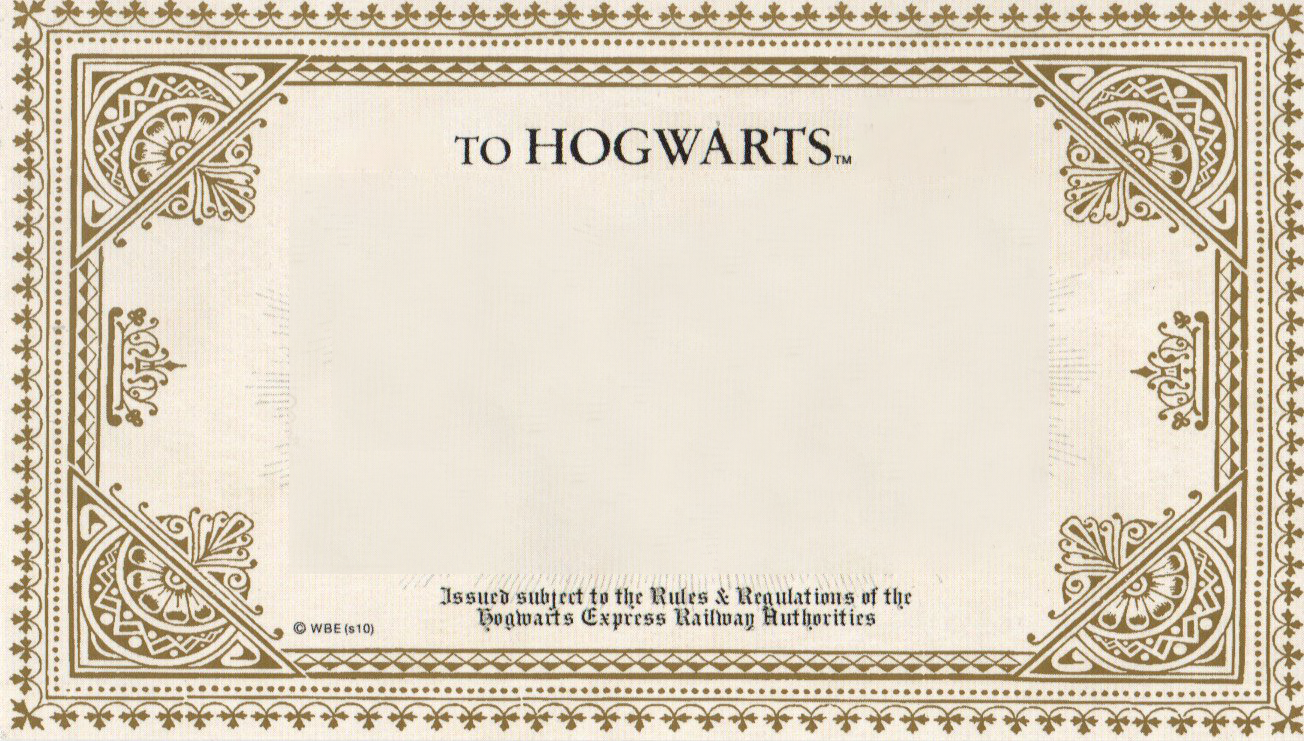
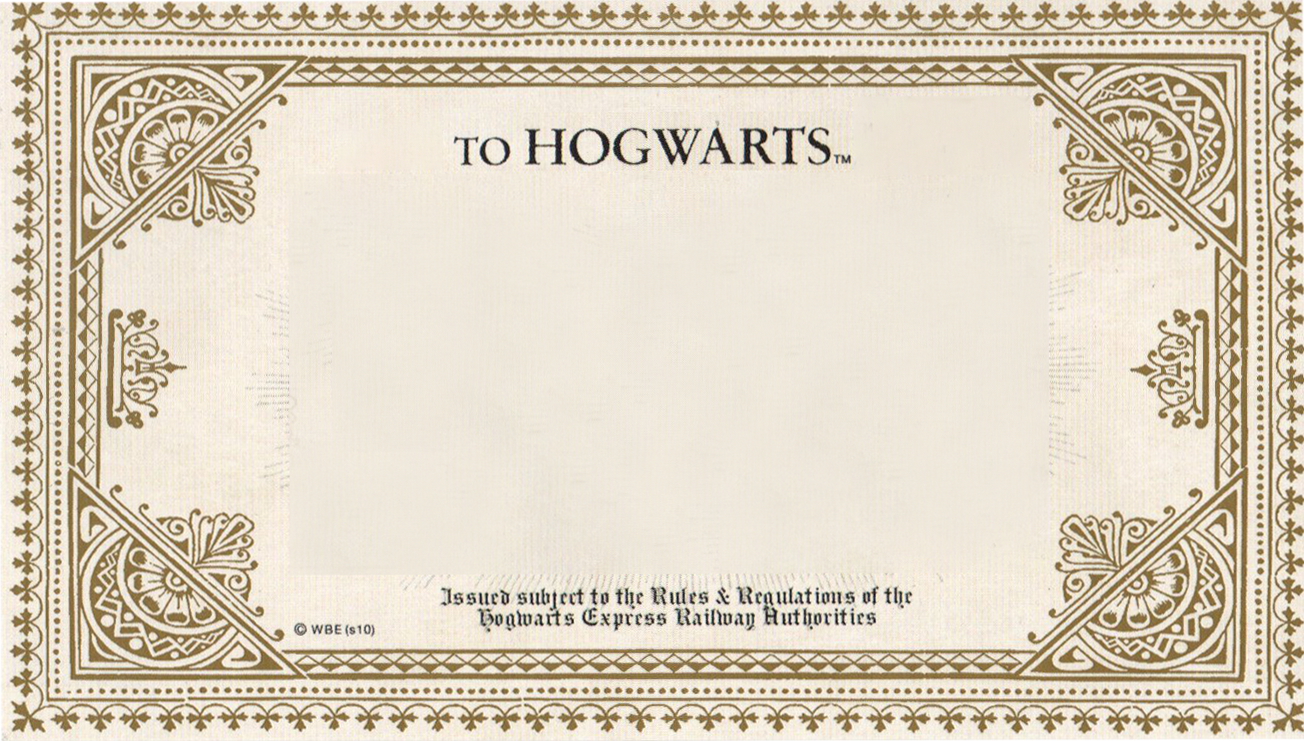
fix layout

Changed region(s): [[0.0, 0.0, 1.0, 1.0], [0.3374, 0.1552, 0.6442, 0.2173]]

diff --git a/js/script.js b/js/script.js
@@ -34,23 +34,24 @@ console.log("sconto per over65 : " , over65 , "€");
 silente = parseFloat(prezzoStandard / 100 * 100);
 console.log("sconto silente : " , silente , "€");
 
+// imposto le condizioni
 if(eta < 18){
   prezzoScontato18 = prezzoStandard - under18;
-  console.log("questo è il prezzo per gli under18: " , prezzoScontato18 , "€");
+  // console.log("questo è il prezzo per gli under18: " , prezzoScontato18 , "€");
   document.getElementById('ticket').innerHTML = "Salve babbano il prezzo del tuo biglietto è: " + prezzoScontato18 + "€" ;
 
 }else if(eta>100){
   prezzoScontatoSilente = prezzoStandard - silente;
-  console.log("questo è il prezzo per Silente: " , prezzoScontatoSilente , "€");
+  // console.log("questo è il prezzo per Silente: " , prezzoScontatoSilente , "€");
   document.getElementById('ticket').innerHTML = "Oddìo Silente è proprio lei ?!Per lei il prezzo del biglietto è : " + prezzoScontatoSilente + "€" ;
 
 }else if(eta > 65){
   prezzoScontato65 = prezzoStandard - over65;
-  console.log("questo è il prezzo per gli over65: " , prezzoScontato65 , "€");
+  // console.log("questo è il prezzo per gli over65: " , prezzoScontato65 , "€");
   document.getElementById('ticket').innerHTML = "Salve babbano il prezzo del tuo biglietto è: " + prezzoScontato65 + "€" ;
 
 }else{
   prezzoStandard = prezzoStandard;
-  console.log("tu paghi : " , prezzoStandard , "€");
+  // console.log("tu paghi : " , prezzoStandard , "€");
   document.getElementById('ticket').innerHTML = "Salve babbano il prezzo del tuo biglietto è: " + prezzoStandard + "€";
 }

diff --git a/css/style.css b/css/style.css
@@ -2,7 +2,6 @@ body{
   margin:0;
   padding:0;
   box-sizing: border-box;
-  min-height: 100vh;
   display:flex;
   flex-direction: column;
   justify-content: center;
@@ -10,7 +9,8 @@ body{
   background-repeat: no-repeat;
   background-size: cover;
   align-items: center;
-  font-family: "harrypotter"
+  font-family: "harrypotter";
+  background-attachment: fixed;
 }
 
 
@@ -25,24 +25,24 @@ h1{
 }
 
 .biglietto{
-  height: 450px;
-  width:50%;
+  min-height: 400px;
   background-image: url(../img/biglietto.png);
   background-repeat: no-repeat;
-  background-size: 100%;
-  padding:50px;
+  background-size: cover;
+  background-position: center;
   font-weight: bold;
   text-align: center;
-  border: 1px solid;
-  box-shadow: 5px 10px;
+  box-shadow: 0 0 30px #000;
   display:flex;
   justify-content: center;
   align-items: center;
+  letter-spacing: 0.2rem;
 }
 
 span{
+  font-family: sans-serif;
   color:#2B232B;
-  font-size: 50px;
-  width: 70%;
+  font-size: 30px;
+  width: 60%;
   display:block;
 }

diff --git a/index.html b/index.html
@@ -11,8 +11,6 @@
     <h1>Biglietto per Hogwarts</h1>
     <div class="biglietto">
       <span id=ticket></span>
-      <!-- <span id=ticket18></span>
-      <span id=ticket65></span> -->
     </div>
 
 
